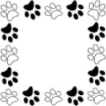
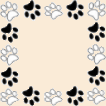
teton cotons page changes and bootstrap project folder creation

diff --git a/Teton Cotons Page/Teton Cotons Stylesheet.css b/Teton Cotons Page/Teton Cotons Stylesheet.css
@@ -1,4 +1,5 @@
 /* Headers */
+
 .p1 {
 	color: MidnightBlue;
 	font-size: 50px;
@@ -9,18 +10,22 @@
 	margin-bottom: 15px;
 	margin-top: 15px;
 }
+
 /* Body Text */
+
 .p2 {
 	color: ForestGreen;
 	font-size: 20px;
 	border: 20px solid transparent;
 	border-image: url('Body Text Boarder.png') 20 20 round;
 	padding: 10px;
-	margin-left: 300px;
-	margin-right: 300px;
+	margin-left: 200px;
+	margin-right: 200px;
 	text-indent: 50px;
 }
+
 /* Navigation Bar */
+
 .p3 {
 	color: MidnightBlue;
 	font-size: 35px;
@@ -33,12 +38,32 @@
 	word-spacing: 1px;
 	font-variant: small-caps;
 }
+
+.p3 a:hover {
+        text-shadow: 0 0 18px rgb(36, 36, 255);
+}
+
 /*Bullet Points*/
+
 ul {
 	list-style-type: square;
 	list-style-image: url("Bullet Point.png");	
 }
+
+/*Our Dogs Page background*/
+
+.odbackground {
+	text-align: center;
+	width: 1355px;
+	height: 1350px;
+	margin: 35px auto;
+	background-color: #faebd7;
+    border: 2px solid black;
+    border-radius: 50px;
+}
+
 /*Gallery Border*/
+
 .gallery {
 	text-align: center;
 	width: 1355px;
@@ -46,10 +71,11 @@ ul {
 	margin: 35px auto;
 	background-color: #faebd7;
     border: 2px solid black;
-    border-radius: 5%;
+    border-radius: 50px;
 }
 
 /*Gallery Pics*/
+
 .gallery .galpic:nth-child(-n+9) {
     float: left;
     width: 180px;
@@ -65,3 +91,157 @@ ul {
     height: 260px;
 }
 
+/*Contact Form*/
+
+.reservation {
+    width: 1355px;
+    height: 750px;
+    border-radius: 50px;
+    margin: 35px auto;
+    border: 2px solid black;
+    background-color: #faebd7;
+}
+
+.reservation h2 {
+    width: 70%;
+    text-align: center;
+    margin: 0 auto;
+    color: #13161b;
+    font-weight: 500;
+    font-size: 1.3em;
+    letter-spacing: 0pt;
+    word-spacing: 0pt;
+}
+
+.reservation h2 span {
+    width: 70%;
+    text-align: center;
+    margin: 0 auto;
+    color: #13161b;
+    font-weight: 900;
+    font-size: 1.5em;
+    font-variant: small-caps;
+    letter-spacing: .4pt;
+    word-spacing: .3pt;
+}
+
+.reservation p{
+    color: #13161b;
+    width: 50%;
+    margin: 0 auto;
+}
+
+.reservation form {
+    font-size: 15px;
+    outline: none;
+    font-weight: 600;
+    color: #8d8e8f;
+    padding: 12px 12px;
+    width: 50%;
+    border: 1px solid #8d8d8d;
+    margin: 2% auto;
+    border-radius: 7px;
+    background: rgb(227, 222, 222);
+    box-shadow: 2px 3px 3px 0px rgba(0, 0, 0, 0.3);
+    font-family: 'Raleway', sans-serif;
+}
+
+.reservation input[type="text"] {
+    font-size: 15px;
+    outline: none;
+    font-weight: 600;
+    color: midnightblue;
+    padding: 2% 1% 2% 7%;
+    width: 80%;
+    border-top: 1px solid #090b0d;
+    border-right: 2px solid #424549;
+    border-bottom: 2px solid #424549;
+    border-left: 1px solid #090b0d;
+    margin: 10px 1em;
+    border-radius: 7px;
+    background: #ffffff;
+    box-shadow: inset 0px 3px 0px 0px rgba(5, 5, 5, .15);
+    font-family: 'Raleway', sans-serif;
+}
+
+.reservation input[type="text"]:hover {
+    box-shadow: 0 0 18px midnightblue;
+}
+
+.form-spacer {
+    padding: 30px 39px;
+}
+
+.terms {
+    margin: 30px 1px 0 0;
+    padding-left: 52px;
+    font-size: 14px;
+    line-height: 5px;
+    color: #000;
+    cursor: pointer;
+    font-family: 'Raleway', sans-serif;
+    font-weight: 600;
+    position: relative;
+    display: inline;
+    float: right;
+    margin-top: 8%;
+}
+
+.terms:hover {
+    color: rgb(197, 131, 8);
+    text-decoration: underline;
+}
+
+.submit input[type="submit"] {
+    color: rgb(225, 225, 225);
+    cursor: pointer;
+    border: none;
+    font-weight: 900;
+    outline: none;
+    text-align: center;
+    font-family: 'Raleway', sans-serif;
+    margin: 0px 3%;
+    padding: 7px 0px;
+    width: 25%;
+    font-size: 18px;
+    transition: boarder-color 0.3s color 0.3s background-color 0.3s;
+    border-radius: 7px;
+    background-color: #797a7b;
+    box-shadow: 1px 1px 4px 0 rgba(0, 0, 0, 0.3);
+}
+
+.submit input[type="submit"]:hover {
+    color: #000;
+    background-color: #8d8e8f;
+    box-shadow: inset 1px 2px 15px 0 rgba(0, 0, 0, 0.5);
+}
+
+.reservation input[type="email"] {
+    font-size: 15px;
+    outline: none;
+    font-weight: 600;
+    color: midnightblue;
+    padding: 2% 1% 2% 7%;
+    width: 80%;
+    border-top: 1px solid #090b0d;
+    border-right: 2px solid #424549;
+    border-bottom: 2px solid #424549;
+    border-left: 1px solid #090b0d;
+    margin: 10px 1em;
+    border-radius: 7px;
+    background: #ffffff;
+    box-shadow: inset 0px 3px 0px 0px rgba(5, 5, 5, .15);
+    font-family: 'Raleway', sans-serif;
+}
+
+.reservation input[type="email"]:hover {
+    box-shadow: 0 0 18px midnightblue;
+}
+
+.rsvp-text {
+    text-align: center;
+}
+
+.heading-padding {
+    padding-bottom: 40px;
+}

diff --git a/Teton Cotons Page/Our Dogs.html b/Teton Cotons Page/Our Dogs.html
@@ -31,7 +31,7 @@
 		
 		<!-- Main Body -->
 			<div>
-				<div>
+				<div class="odbackground">
 					<p class="p1"><u>Meet Sariah!</u></p>
 					<p style="text-align:center;"><img src="Coton.png"></p>
 					<p class="p2">Sariah is the matron of the family. She's not afraid to break up fights and keep the others in line, although she's not opposed to having some fun every now and then too. She LOVES to run around in the sprinklers. Cotons are naturally water friendly. They were bred to be a sailor's dog and have a natural kinship to the water. They are fiercly loyal animals and will follow their favorite person around the house, as Sariah does with me. Sariah is the matron of the family. She's not afraid to break up fights and keep the others in line, although she's not opposed to having some fun every now and then. She LOVES to run around in the sprinklers. Cotons are naturally water friendly. They were bred to be a sailor's dog and have a natural kinship to the water. They are fiercly loyal animals and will follow their favorite person around the house, as Sariah does with me. Sariah is the matron of the family. She's not afraid to break up fights and keep the others in line, although she's not opposed to having some fun every now and then. She LOVES to run around in the sprinklers. Cotons are naturally water friendly. They were bred to be a sailor's dog and have a natural kinship to the water. They are fiercly loyal animals and will follow their favorite person around the house, as Sariah does with me. Sariah is the matron of the family. She's not afraid to break up fights and keep the others in line, although she's not opposed to having some fun every now and then. She LOVES to run around in the sprinklers. Cotons are naturally water friendly. They were bred to be a sailor's dog and have a natural kinship to the water. They are fiercly loyal animals and will follow their favorite person around the house, as Sariah does with me. Sariah is the matron of the family. She's not afraid to break up fights and keep the others in line, although she's not opposed to having some fun every now and then. She LOVES to run around in the sprinklers. Cotons are naturally water friendly. They were bred to be a sailor's dog and have a natural kinship to the water. They are fiercly loyal animals and will follow their favorite person around the house, as Sariah does with me.</p>

diff --git a/Teton Cotons Page/Contact Us.html b/Teton Cotons Page/Contact Us.html
@@ -29,28 +29,28 @@
 			</div>
 		<!-- End Navigation Panel -->
 			<!-- Contact Form -->
-			<section>
-				<div>
-					<div>
-						<h1>Contact Us</h1>
-						<div>
-							<h2><span>Your new puppy is just one form away!</span>
-								<br />Please fill out the form below and we will reply as soon as we can.
+			<div id="contact">
+				<div class="container">
+					<div class="heading-padding">
+						<div class="reservation">
+							<h1 class="p1">C<u>ontact</u> U<u>s</u></h1>
+							<h2><span>Your new friend is just one form away!</span>
+								<br/>Reserve your puppy today!
 							</h2>
-							<p>
-								Please provide us with your basic contact information, along with any questions or concerns you may have.
+							<p class="rsvp-text">
+								Please provide us with your basic contact information.
 							</p>
-							<div>
+							<div class="form-rsvp">
 								<form action="" method="post">
-									<input class="contact us" type="text" value="" placeholder="First Name">
-									<input class="contact us" type="text" value="" placeholder="Last Name">
-									<input class="contact us" type="text" value="" placeholder="Email Address">
-									<input class="contact us" type="text" value="" placeholder="Phone Number">
-									<input class="contact us" type="text" value="" placeholder="Questions">
+									<input class="rsvp" type="text" value="" placeholder="First Name">
+									<input class="rsvp" type="text" value="" placeholder="Last Name">
+									<input class="rsvp" type="email" value="" placeholder="Email Address">
+									<input class="rsvp" type="text" value="" placeholder="Phone Number">
+									<input class="rsvp" type="text" value="" placeholder="Please type any questions or concerns here">
 									<div class="form-spacer">
 										<label class="terms">Terms and Conditions</label>
 									</div>
-									<div>
+									<div class="submit">
 										<input type="submit" value="Submit">
 									</div>
 								</form>
@@ -58,7 +58,7 @@
 						</div>
 					</div>
 				</div>
-			</section>
+			</div>
 			<!-- End Contact Form -->
 		</main>
 		

diff --git a/Teton Cotons Page/Dog.html b/Teton Cotons Page/Dog.html
@@ -32,10 +32,11 @@
 		<!-- Home Page -->
 			<div>
 				<div>
-					<div>
+					<div class="gallery">
+						<h1 class="p1">W<u>elcome</u> <u>to</u> <u>the</u> W<u>orld</u> <u>of</u> C<u>oton</u> <u>de</u> T<u>ulear!</u></h1>
 						<details>
-							<summary>Strong Points</summary>
-							<ul>
+							<summary style="text-align: left; margin-left: 12px;">Strong Points</summary>
+							<ul style="text-align: left; margin-left: 20px;">
 								<li>Affection and sensibility</li>
 								<li>Good with cats, other dogs, novice owners, seniors, and apartment living</li>
 								<li>Low shedding level</li>
@@ -44,8 +45,8 @@
 							</ul>
 						</details>
 						<details>
-							<summary>Weak Points</summary>
-							<ul>
+							<summary style="text-align: left; margin-left: 12px;">Weak Points</summary>
+							<ul style="text-align: left; margin-left: 20px;">
 								<li>Suffer from separation anxiety if left on their own</li>
 								<li>High grooming needs</li>
 								<li>High Bathing needs</li>
@@ -56,26 +57,6 @@
 				</div>
 			</div>
 		<!-- End Home Page-->
-		
-		<!-- Gallery -->
-			<section>
-				<div>
-					<h1>Gallery</h1>
-					<div>
-					
-						<!-- Photo Container 1 -->
-						<div>
-							<div>
-								<div>
-									<h3>Click to Enlarge</h3>
-									<p>Each litter is roughly 3-6 puppies. Please feel free to <b><a href="Contact Us.html">Contact Us</a></b> about reserving your puppy today!</p>
-								</div>
-							</div>
-						</div>
-					</div>
-				</div>
-			</section>
-		<!-- End Gallery -->
 		
 		</main>
 		

diff --git a/bootstrap4_project/bootstrap test.html b/bootstrap4_project/bootstrap test.html
@@ -1,0 +1,22 @@
+<!doctype html>
+<html lang="en">
+  <head>
+    <!-- Required meta tags -->
+    <meta charset="utf-8">
+    <meta name="viewport" content="width=device-width, initial-scale=1, shrink-to-fit=no">
+
+    <!-- Bootstrap CSS -->
+    <link rel="stylesheet" href="https://stackpath.bootstrapcdn.com/bootstrap/4.1.3/css/bootstrap.min.css" integrity="sha384-MCw98/SFnGE8fJT3GXwEOngsV7Zt27NXFoaoApmYm81iuXoPkFOJwJ8ERdknLPMO" crossorigin="anonymous">
+
+    <title>Hello, world!</title>
+  </head>
+  <body>
+    <h1>Hello, world!</h1>
+
+    <!-- Optional JavaScript -->
+    <!-- jQuery first, then Popper.js, then Bootstrap JS -->
+    <script src="https://code.jquery.com/jquery-3.3.1.slim.min.js" integrity="sha384-q8i/X+965DzO0rT7abK41JStQIAqVgRVzpbzo5smXKp4YfRvH+8abtTE1Pi6jizo" crossorigin="anonymous"></script>
+    <script src="https://cdnjs.cloudflare.com/ajax/libs/popper.js/1.14.3/umd/popper.min.js" integrity="sha384-ZMP7rVo3mIykV+2+9J3UJ46jBk0WLaUAdn689aCwoqbBJiSnjAK/l8WvCWPIPm49" crossorigin="anonymous"></script>
+    <script src="https://stackpath.bootstrapcdn.com/bootstrap/4.1.3/js/bootstrap.min.js" integrity="sha384-ChfqqxuZUCnJSK3+MXmPNIyE6ZbWh2IMqE241rYiqJxyMiZ6OW/JmZQ5stwEULTy" crossorigin="anonymous"></script>
+  </body>
+</html>
